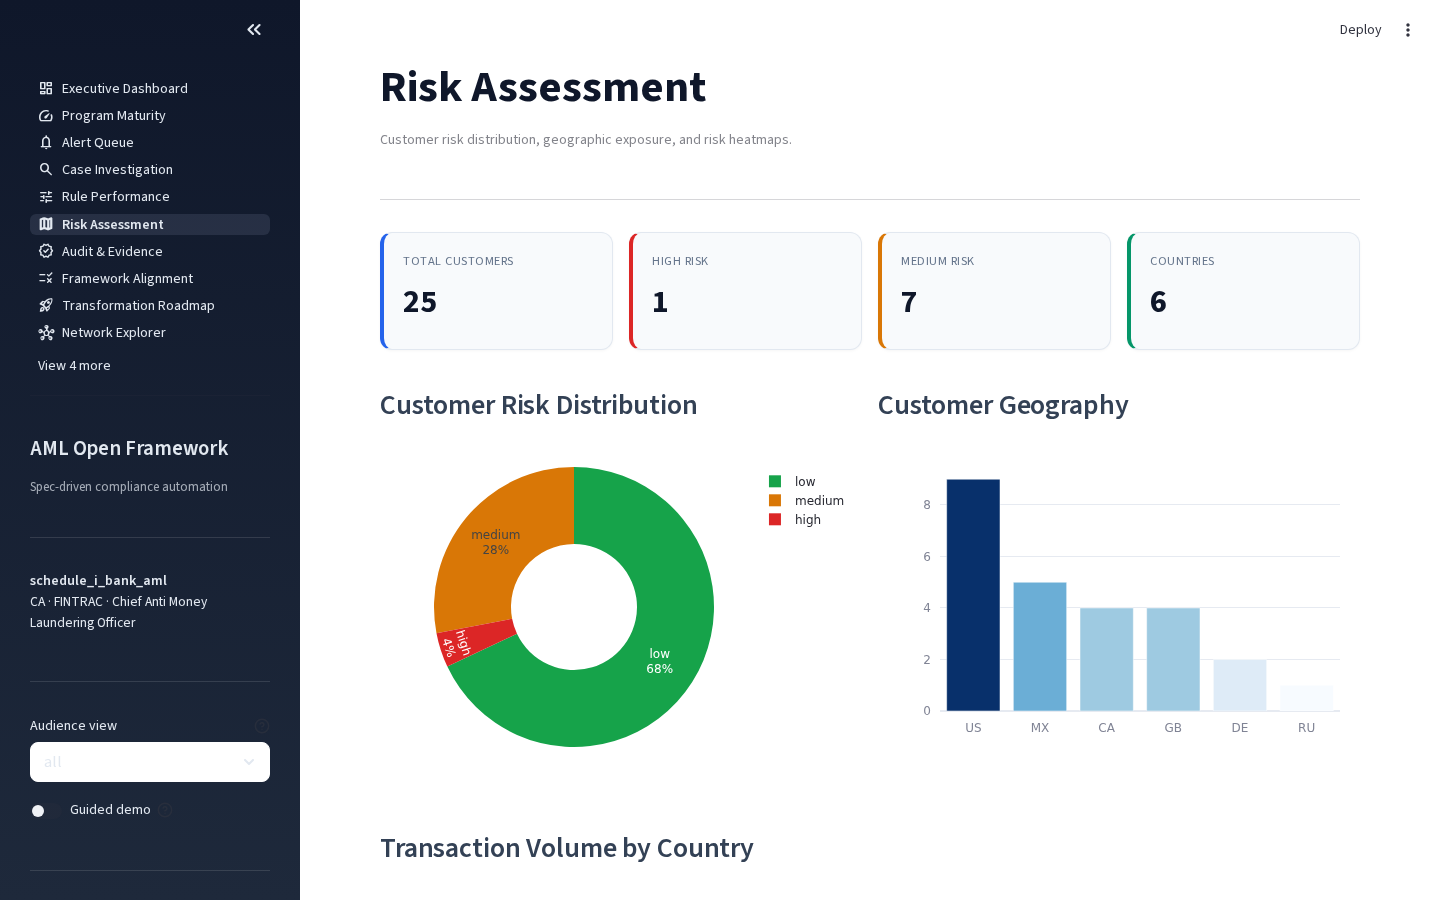
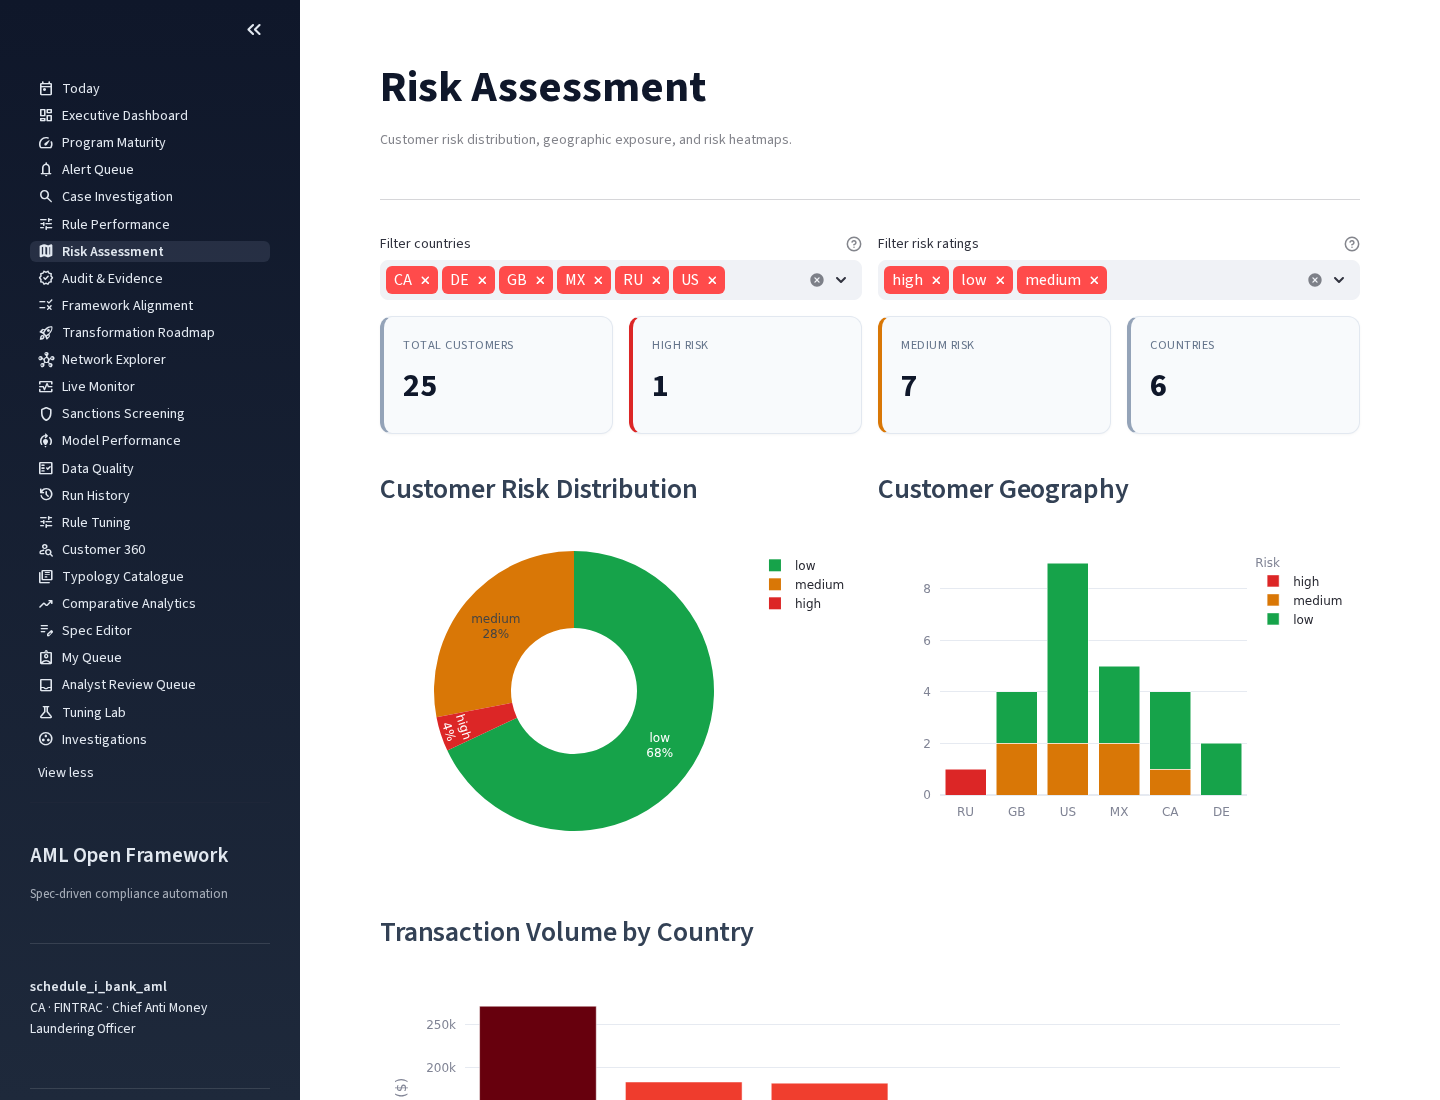
Network Explorer filters + Risk geography stacking + KPI migration (design review PR 5)
Final PR of the huashu-design dashboard review. Cleans up the three
remaining items: Network Explorer becoming a hairball past 25 nodes,
Customer Geography being a story-less monochrome blue chart, and the
KPI rainbow on the two pages that hadn't migrated yet.

Network Explorer
----------------

- New "Show alerted nodes + counterparties only" toggle filters the
  graph to investigation-relevant subgraph. Alerted nodes plus their
  direct counterparties (so an alerted node never appears in
  isolation, which would defeat the graph's purpose).

- New "Minimum fan-in" slider trims to nodes with degree ≥ N — useful
  for spotting structuring hubs without scanning the whole graph.

- KPIs migrated to kpi_card_rag:
  - Nodes / Flow Edges → neutral (facts).
  - Alerted Nodes → red when any alerts exist.
  - Fan-In (3+ links) → red when any suspects identified.

Risk Assessment
---------------

- Customer Geography chart: monochrome blue gradient → stacked bars by
  risk rating. The pre-PR-5 chart said only "where do customers live"
  (bar height ≈ count). Now it answers "where does risk concentrate"
  — RU pure-red, US mostly-low, etc. Uses the centralised
  RISK_RATING_COLORS so colors stay consistent with the donut chart
  next to it.

- KPIs migrated:
  - Total Customers / Countries → neutral.
  - High Risk → red when any present.
  - Medium Risk → amber when any present.

Tests
-----

14 source-level tests in `tests/test_dashboard_pr5_polish.py`:
[…]

diff --git a/tests/test_dashboard_pr5_polish.py b/tests/test_dashboard_pr5_polish.py
@@ -1,0 +1,135 @@
+"""Source-level tests for PR 5: Network filters + geography stacking +
+KPI semantic migration on Risk Assessment / Network Explorer.
+"""
+
+from __future__ import annotations
+
+import re
+from pathlib import Path
+
+PROJECT_ROOT = Path(__file__).resolve().parents[1]
+NETWORK = PROJECT_ROOT / "src" / "aml_framework" / "dashboard" / "pages" / "10_Network_Explorer.py"
+RISK = PROJECT_ROOT / "src" / "aml_framework" / "dashboard" / "pages" / "6_Risk_Assessment.py"
+
+
+# ---------------------------------------------------------------------------
+# Network Explorer — alerted-only filter + KPI migration
+# ---------------------------------------------------------------------------
+
+
+class TestNetworkAlertedFilter:
+    def test_show_alerted_only_toggle_present(self):
+        body = NETWORK.read_text(encoding="utf-8")
+        assert "show_alerted_only" in body, (
+            "Network Explorer must expose an alerted-only filter so the "
+            "graph stays legible past ~25 customers"
+        )
+        assert "st.toggle" in body, "Filter must be a toggle widget"
+
+    def test_min_fan_in_slider_present(self):
+        body = NETWORK.read_text(encoding="utf-8")
+        assert "min_fan_in" in body
+        assert "st.slider" in body
+
+    def test_filter_keeps_counterparties_of_alerted(self):
+        body = NETWORK.read_text(encoding="utf-8")
+        # The filter must include direct counterparties of alerted nodes —
+        # showing an isolated alerted node with no edges defeats the
+        # graph's purpose.
+        assert (
+            "counterparties" in body
+            or "counterparty" in body
+            or ("for c1, c2 in edge_weights:" in body and "alerted_ids" in body)
+        ), "Alerted-only filter must include direct counterparties of alerted nodes"
+
+
+class TestNetworkKpiMigration:
+    def test_imports_kpi_card_rag(self):
+        body = NETWORK.read_text(encoding="utf-8")
+        assert "kpi_card_rag" in body
+        # Old kpi_card import must be gone.
+        assert (
+            re.search(
+                r"from aml_framework.dashboard.components import \([^)]*\bkpi_card\b(?!_)",
+                body,
+                flags=re.DOTALL,
+            )
+            is None
+        )
+
+    def test_alerted_nodes_kpi_uses_red_when_alerts(self):
+        body = NETWORK.read_text(encoding="utf-8")
+        assert (
+            'kpi_card_rag(\n        "Alerted Nodes"' in body
+            or 'kpi_card_rag("Alerted Nodes"' in body
+        )
+        assert 'rag="red" if alerted_ids else None' in body
+
+    def test_fan_in_kpi_uses_red_when_suspects(self):
+        body = NETWORK.read_text(encoding="utf-8")
+        assert "fan_in_suspects" in body
+        assert 'rag="red" if fan_in_suspects else None' in body
+
+
+# ---------------------------------------------------------------------------
+# Risk Assessment — stacked geography + KPI migration
+# ---------------------------------------------------------------------------
+
+
+class TestRiskGeographyStacked:
+    def test_no_more_blue_continuous_scale(self):
+        body = RISK.read_text(encoding="utf-8")
+        # Pre-PR-5 the Customer Geography chart used a monochrome blue
+        # continuous scale on raw count — telling no story beyond bar
+        # height. Migration must remove it.
+        assert 'color_continuous_scale="Blues"' not in body, (
+            "Customer Geography must group by risk rating, not be a monochrome blue gradient"
+        )
+
+    def test_groups_by_risk_rating(self):
+        body = RISK.read_text(encoding="utf-8")
+        # Stacked bar: groupby (country, risk_rating).
+        assert 'groupby(["country", "risk_rating"])' in body, (
+            "Customer Geography must aggregate by (country, risk_rating) "
+            "so the chart shows where risk concentrates"
+        )
+
+    def test_uses_risk_rating_colors(self):
+        body = RISK.read_text(encoding="utf-8")
+        assert "color_discrete_map=RISK_RATING_COLORS" in body, (
+            "Stacked bars must use the centralised RISK_RATING_COLORS "
+            "to stay consistent with the rest of the dashboard"
+        )
+
+    def test_stack_mode_explicit(self):
+        body = RISK.read_text(encoding="utf-8")
+        assert 'barmode="stack"' in body, "Bars must explicitly stack"
+
+
+class TestRiskKpiMigration:
+    def test_imports_kpi_card_rag(self):
+        body = RISK.read_text(encoding="utf-8")
+        assert "kpi_card_rag" in body
+
+    def test_high_risk_kpi_red_when_present(self):
+        body = RISK.read_text(encoding="utf-8")
+        assert 'kpi_card_rag("High Risk", high_risk, rag=high_risk_rag)' in body
+        assert 'high_risk_rag = "red" if high_risk else None' in body
+
+    def test_medium_risk_kpi_amber_when_present(self):
+        body = RISK.read_text(encoding="utf-8")
+        assert 'kpi_card_rag("Medium Risk", medium_risk, rag=medium_risk_rag)' in body
+        assert 'medium_risk_rag = "amber" if medium_risk else None' in body
+
+    def test_no_legacy_rainbow_hex(self):
+        body = RISK.read_text(encoding="utf-8")
+        rainbow_hexes = [
+            r'kpi_card\([^)]+"#dc2626"',
+            r'kpi_card\([^)]+"#d97706"',
+            r'kpi_card\([^)]+"#7c3aed"',
+            r'kpi_card\([^)]+"#0891b2"',
+            r'kpi_card\([^)]+"#059669"',
+            r'kpi_card\([^)]+"#2563eb"',
+        ]
+        offenders = [pat for pat in rainbow_hexes if re.search(pat, body)]
+        assert not offenders, f"Risk Assessment still has rainbow-hex KPI calls: {offenders}"

diff --git a/src/aml_framework/dashboard/pages/10_Network_Explorer.py b/src/aml_framework/dashboard/pages/10_Network_Explorer.py
@@ -14,7 +14,7 @@ from streamlit_agraph import Config, Edge, Node, agraph
 
 from aml_framework.dashboard.components import (
     empty_state,
-    kpi_card,
+    kpi_card_rag,
     link_to_page,
     page_header,
     risk_color,
@@ -61,6 +61,34 @@ if st.session_state.get("guided_demo"):
 alerted_ids = set()
 if not df_alerts.empty and "customer_id" in df_alerts.columns:
     alerted_ids = set(df_alerts["customer_id"].dropna().unique())
+
+# --- Filters --- (PR 5)
+# Past ~25 customers the full graph becomes hairball-soup. Filters let
+# the user trim to (a) only customers with active alerts + their direct
+# counterparties, or (b) nodes with high fan-in degree. Both filters
+# are computed before edge construction so the rendered graph stays
+# legible without the agraph layout fighting itself.
+fc1, fc2, fc3 = st.columns([2, 2, 1])
+with fc1:
+    show_alerted_only = st.toggle(
+        "Show alerted nodes + counterparties only",
+        value=False,
+        help=(
+            "Hides customers with no active alert AND no temporal "
+            "correlation to an alerted customer. Surfaces the "
+            "investigation-relevant subgraph."
+        ),
+    )
+with fc2:
+    min_fan_in = st.slider(
+        "Minimum fan-in (correlated counterparties)",
+        min_value=0,
+        max_value=10,
+        value=0,
+        help="Filter to nodes whose temporal-correlation degree ≥ this threshold.",
+    )
+with fc3:
+    st.caption(f"{len(df_customers)} total customers in spec")
 
 # Per-customer stats.
 cust_stats = (
@@ -145,16 +173,46 @@ for c1, c2 in edge_weights:
     fan_in_counts.setdefault(c2, set()).add(c1)
 fan_in_suspects = {cid for cid, senders in fan_in_counts.items() if len(senders) >= 3}
 
+# --- Apply filters (PR 5) ---
+# After edges are computed we know which nodes are connected to which.
+# Filtering the *node* list shrinks the visible graph; edges referencing
+# filtered-out nodes are dropped automatically by agraph.
+if show_alerted_only and alerted_ids:
+    keep_ids = set(alerted_ids)
+    # Include direct counterparties so the alerted node has context.
+    for c1, c2 in edge_weights:
+        if c1 in alerted_ids:
+            keep_ids.add(c2)
+        if c2 in alerted_ids:
+            keep_ids.add(c1)
+    nodes = [n for n in nodes if n.id in keep_ids]
+    edges = [e for e in edges if e.source in keep_ids and e.to in keep_ids]
+if min_fan_in > 0:
+    keep_ids = {cid for cid, senders in fan_in_counts.items() if len(senders) >= min_fan_in}
+    nodes = [n for n in nodes if n.id in keep_ids]
+    edges = [e for e in edges if e.source in keep_ids and e.to in keep_ids]
+
 # --- KPI row ---
+# Alerted nodes carries an actual assessment (any alert is a state to
+# notice). Fan-in suspects ≥ 3 also a signal — bind to red. Counts of
+# total nodes/edges are facts.
 c1, c2, c3, c4 = st.columns(4)
 with c1:
-    kpi_card("Nodes", len(nodes), "#2563eb")
+    kpi_card_rag("Nodes", len(nodes))
 with c2:
-    kpi_card("Flow Edges", len(edges), "#7c3aed")
+    kpi_card_rag("Flow Edges", len(edges))
 with c3:
-    kpi_card("Alerted Nodes", len(alerted_ids), "#dc2626")
+    kpi_card_rag(
+        "Alerted Nodes",
+        len(alerted_ids),
+        rag="red" if alerted_ids else None,
+    )
 with c4:
-    kpi_card("Fan-In (3+ links)", len(fan_in_suspects), "#d97706")
+    kpi_card_rag(
+        "Fan-In (3+ links)",
+        len(fan_in_suspects),
+        rag="red" if fan_in_suspects else None,
+    )
 
 st.markdown("<br>", unsafe_allow_html=True)
 

diff --git a/src/aml_framework/dashboard/pages/6_Risk_Assessment.py b/src/aml_framework/dashboard/pages/6_Risk_Assessment.py
@@ -8,7 +8,7 @@ import streamlit as st
 from aml_framework.dashboard.components import (
     RISK_RATING_COLORS,
     chart_layout,
-    kpi_card,
+    kpi_card_rag,
     page_header,
     risk_color,
 )
@@ -61,16 +61,24 @@ if df_customers.empty:
     st.stop()
 
 # --- KPI row ---
+# High-risk count carries an actual assessment — any high-risk
+# customer is a "state to notice" for compliance. Medium binds amber.
+# Total customers + country count are facts (neutral).
 risk_counts = df_customers["risk_rating"].value_counts()
+high_risk = int(risk_counts.get("high", 0))
+medium_risk = int(risk_counts.get("medium", 0))
+high_risk_rag = "red" if high_risk else None
+medium_risk_rag = "amber" if medium_risk else None
+
 c1, c2, c3, c4 = st.columns(4)
 with c1:
-    kpi_card("Total Customers", len(df_customers), "#2563eb")
+    kpi_card_rag("Total Customers", len(df_customers))
 with c2:
-    kpi_card("High Risk", int(risk_counts.get("high", 0)), "#dc2626")
+    kpi_card_rag("High Risk", high_risk, rag=high_risk_rag)
 with c3:
-    kpi_card("Medium Risk", int(risk_counts.get("medium", 0)), "#d97706")
+    kpi_card_rag("Medium Risk", medium_risk, rag=medium_risk_rag)
 with c4:
-    kpi_card("Countries", df_customers["country"].nunique(), "#059669")
+    kpi_card_rag("Countries", df_customers["country"].nunique())
 
 st.markdown("<br>", unsafe_allow_html=True)
 
@@ -94,16 +102,26 @@ with col_left:
 
 with col_right:
     st.markdown("### Customer Geography")
-    geo = df_customers["country"].value_counts().reset_index()
-    geo.columns = ["Country", "Count"]
+    # Stack by risk rating so the chart tells where risk concentrates
+    # geographically — not just where customers count is highest.
+    # Pre-PR-5 this was a monochrome blue gradient on raw count which
+    # had no story beyond bar height.
+    geo = df_customers.groupby(["country", "risk_rating"]).size().reset_index(name="Count")
+    geo = geo.sort_values("Count", ascending=False)
     fig = px.bar(
         geo,
-        x="Country",
+        x="country",
         y="Count",
-        color="Count",
-        color_continuous_scale="Blues",
+        color="risk_rating",
+        color_discrete_map=RISK_RATING_COLORS,
+        category_orders={"risk_rating": ["high", "medium", "low"]},
     )
-    fig.update_layout(coloraxis_showscale=False, xaxis_title="", yaxis_title="")
+    fig.update_layout(
+        xaxis_title="",
+        yaxis_title="",
+        legend_title_text="Risk",
+        barmode="stack",
+    )
     st.plotly_chart(chart_layout(fig, 340), use_container_width=True)
 
 st.markdown("<br>", unsafe_allow_html=True)
